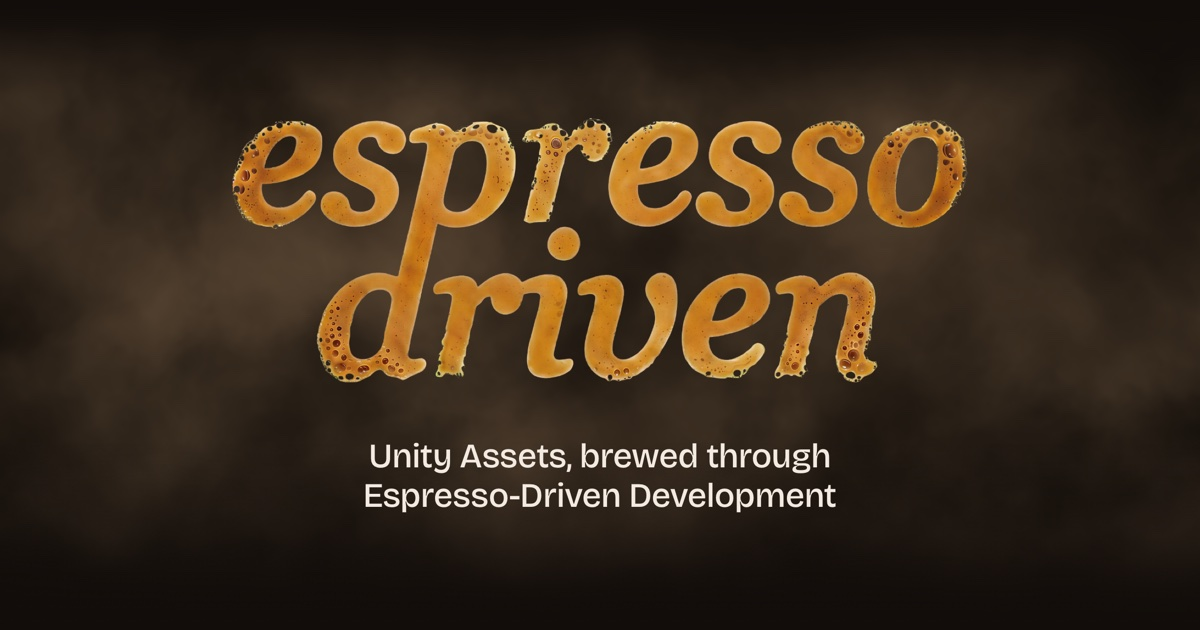
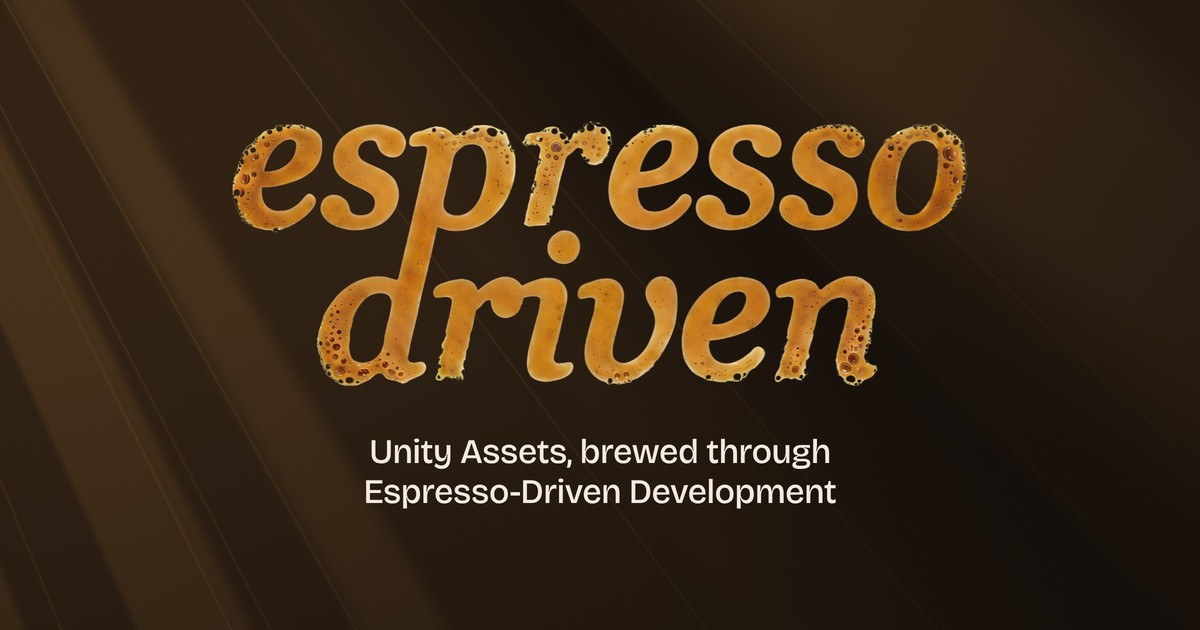
Renew the Open Graph image with the morning light hero
The share image still showed the old swirl. It is regenerated from a
capture of the current hero in the dark theme (wordmark and headline
only), and the generator's docstring now describes its real input and
output.

Claude-Session: https://claude.ai/code/session_01GamMQAfwvyz5Wg7FHUGVz7

diff --git a/scripts/make_og.py b/scripts/make_og.py
@@ -1,15 +1,16 @@
 #!/usr/bin/env python3
 """Generate the Open Graph / social share preview image (1200x630).
 
-Takes the original crema wordmark photo and crops it to the 1200x630 OG
-aspect ratio, keeping the (centered) wordmark centered. Output: images/og.png
+Takes a capture of the hero (dark theme; wordmark and headline only, without
+navigation, buttons or scroll cue) and crops it to the 1200x630 OG aspect
+ratio, keeping the centered wordmark centered. Output: images/og.jpg
 """
 from pathlib import Path
 
 from PIL import Image
 
 ROOT = Path(__file__).resolve().parent.parent
-SRC = ROOT / "images/og-source.jpg"   # original crema wordmark photo
+SRC = ROOT / "images/og-source.jpg"   # hero capture, 2x the target size
 OUT = ROOT / "images/og.jpg"
 
 TARGET_W, TARGET_H = 1200, 630
